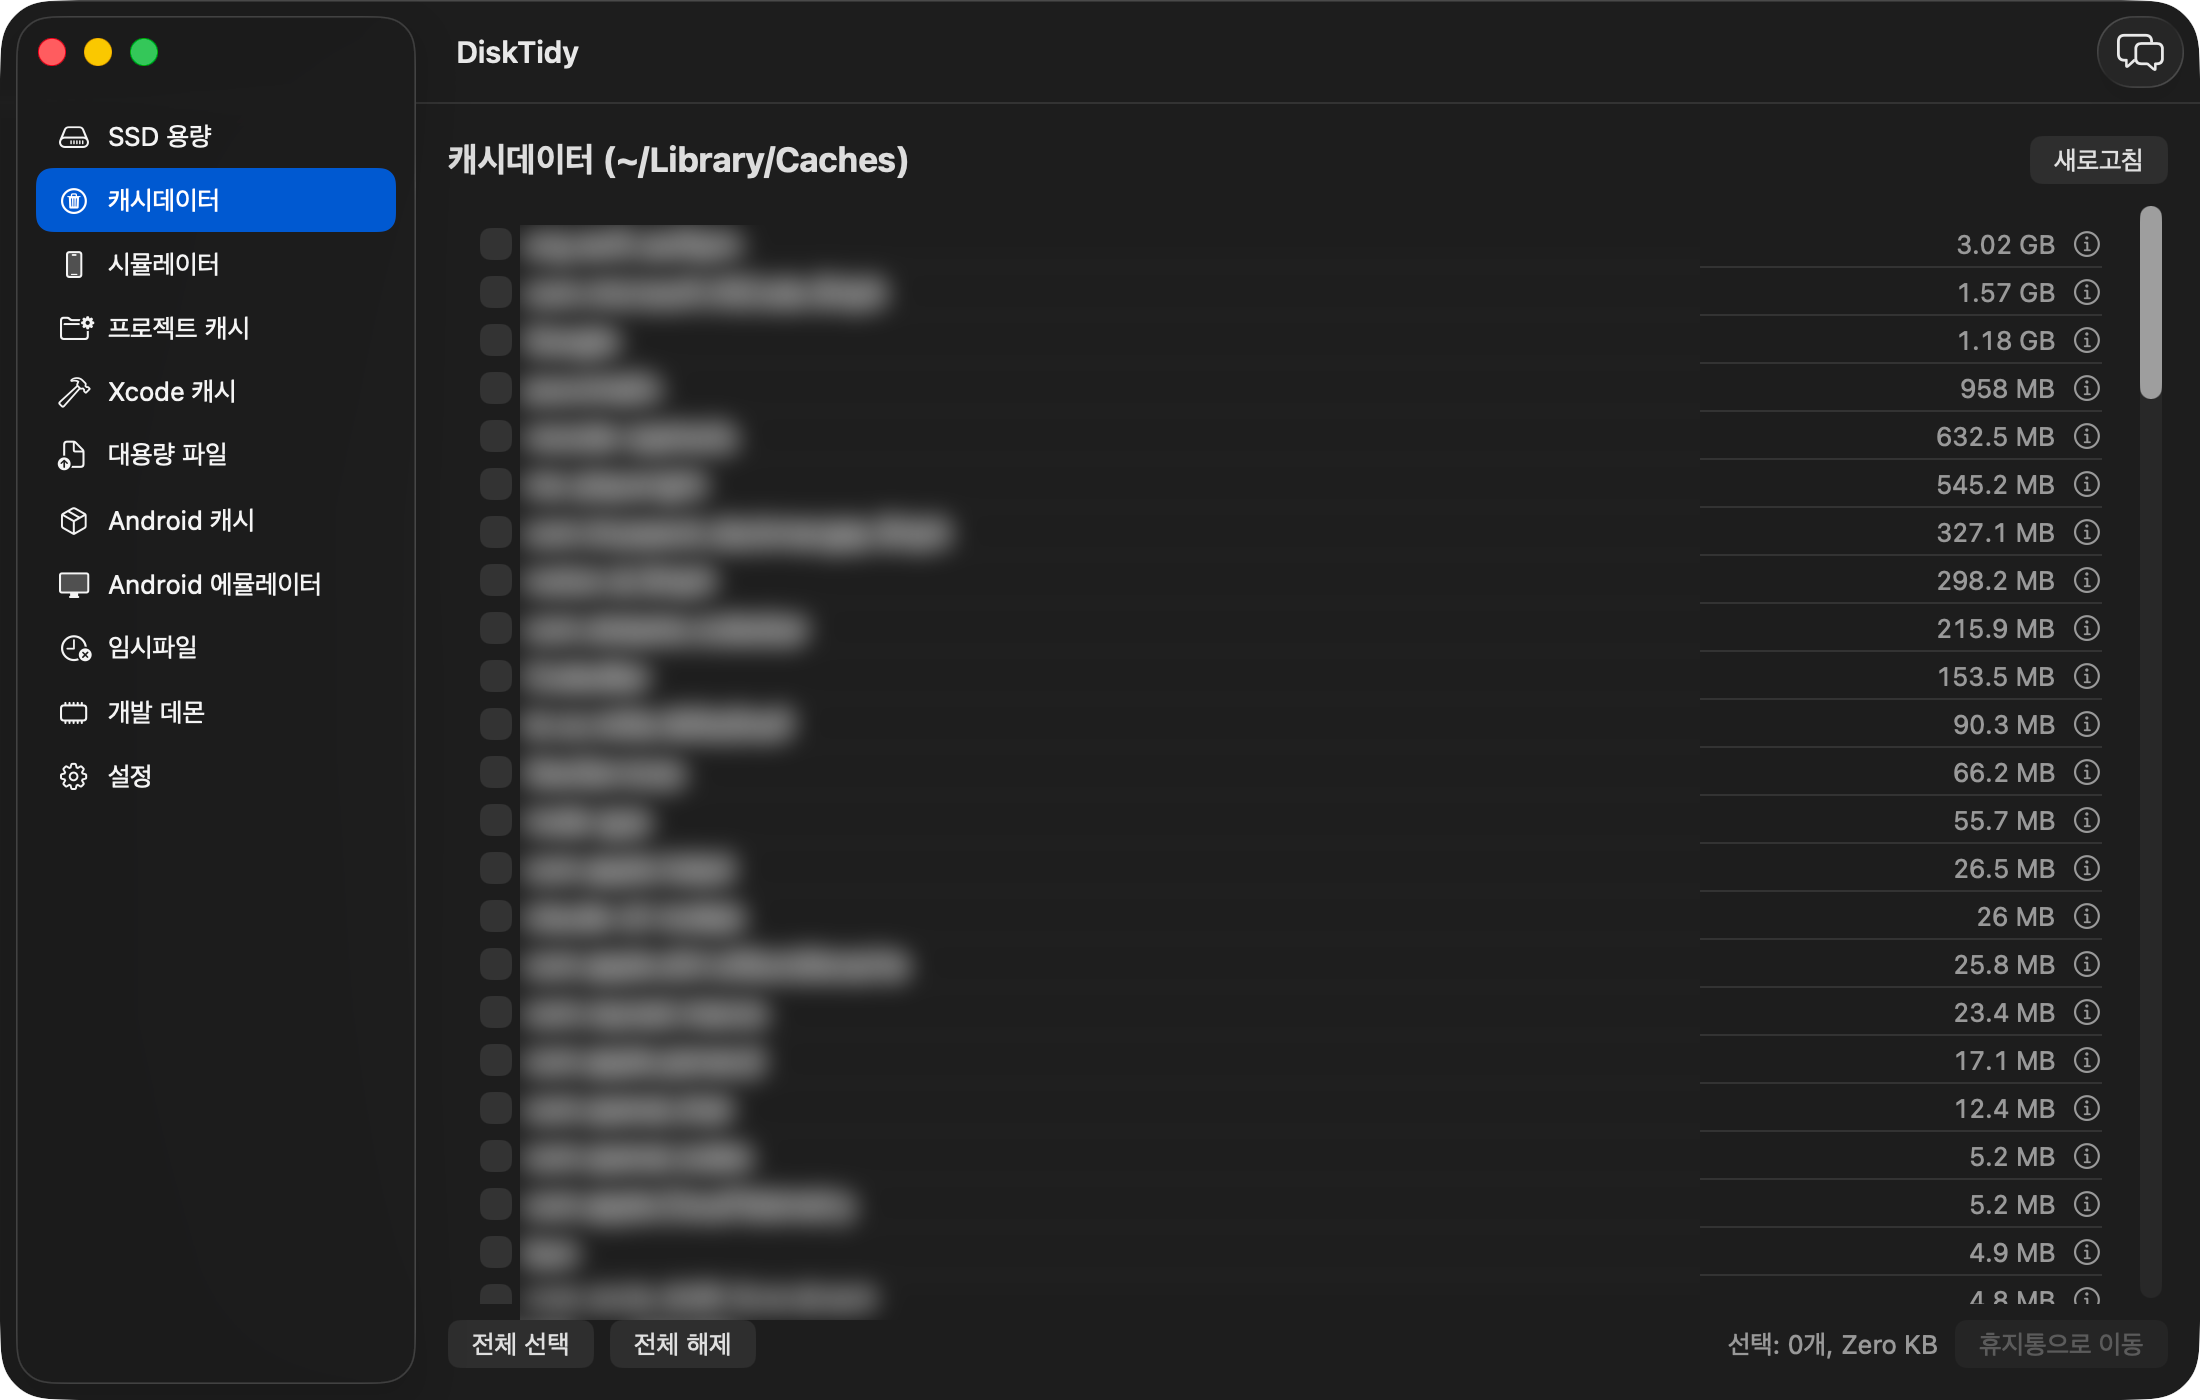
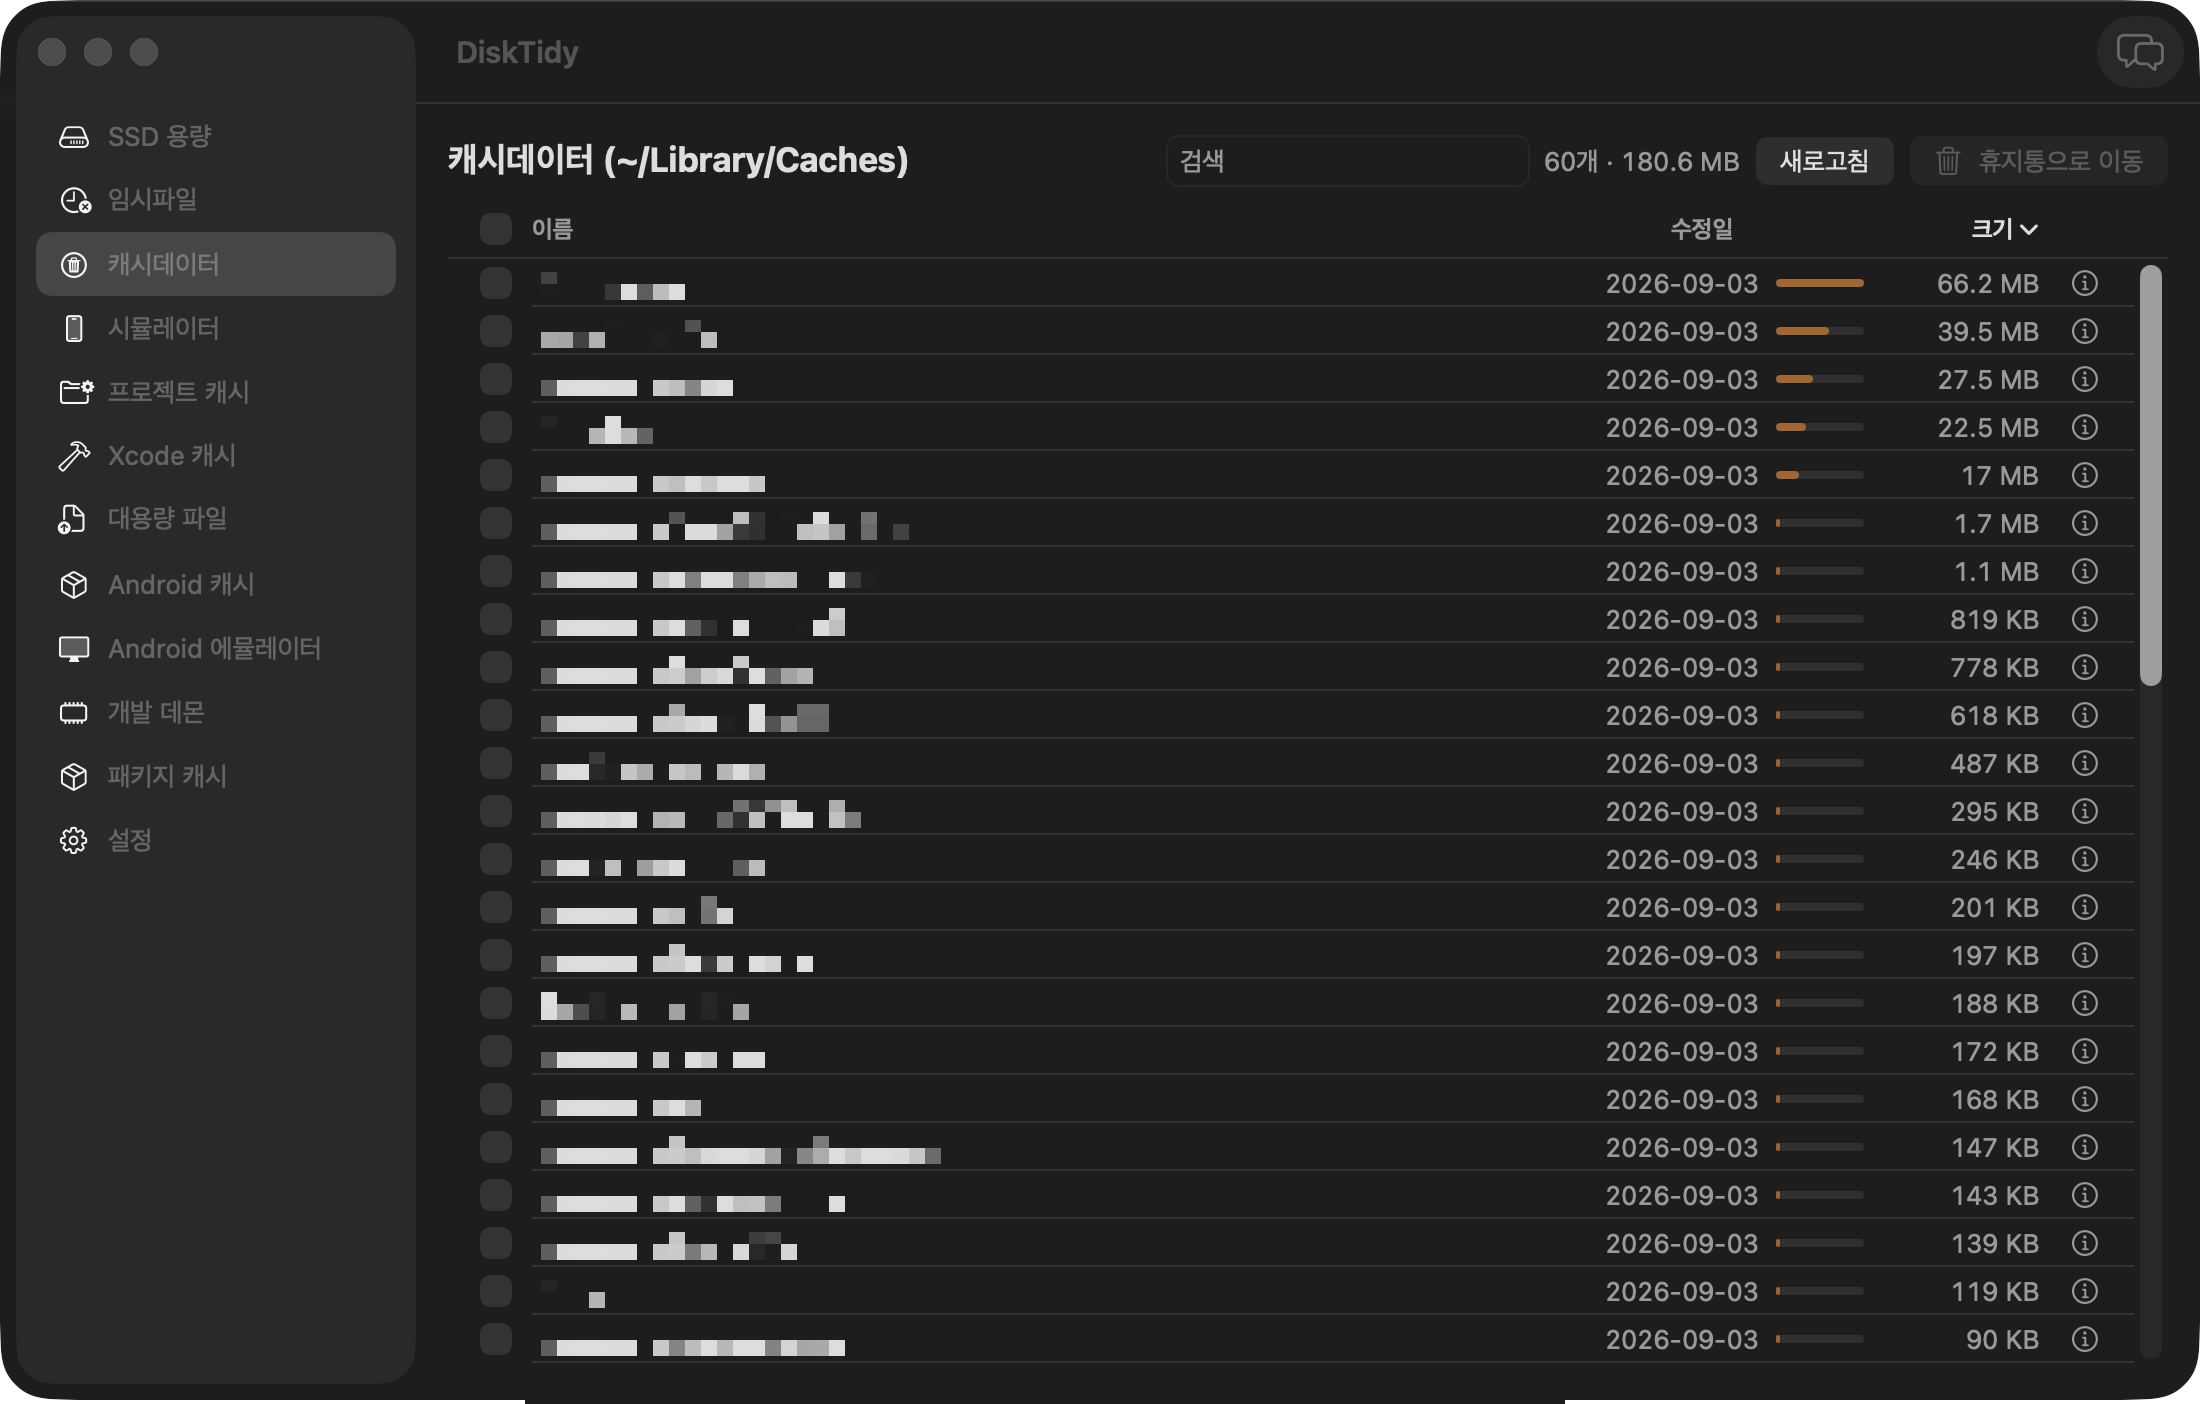
docs: 목록 UI가 바뀐 스크린샷 4장을 다시 찍는다
1.5.2에서 조작이 상단으로 올라간 뒤 스크린샷은 1.5.1 화면이었다. 임시파일 ·
개발 데몬 · 캐시데이터 · 시뮬레이터를 1.5.4 빌드로 다시 찍는다. 기존과 같은
1100×700 창(2x, 2200×1400)이고 AI 도우미는 닫은 상태다.

새 화면에서 보이는 것: 상단 바의 검색·선택 요약·주황 액션 버튼, 3상태 전체
선택 체크박스, 눌러서 정렬하는 열 제목, 크기 비중 막대.

개인정보는 항목 이름 열만 픽셀화했다 — 임시파일은 프로젝트 이름이, 캐시데이터는
앱 번들 ID가 드러난다. 판정 근거·수정일·크기는 그대로 남겼다. 개발 데몬과
시뮬레이터는 프로세스명·기기명이라 마스킹하지 않았다.

캡션도 새 화면에 맞게 고친다.

diff --git a/README.md b/README.md
@@ -75,8 +75,6 @@ macOS SSD 용량 정리 유틸리티다. 앱 캐시 · 시뮬레이터 · 빌드
 - 행 우클릭으로 **Finder에서 보기 · 경로 복사**(프로세스는 PID·실행 경로 복사, 시뮬레이터는 UDID 복사).
 - 고친 것: 개발 데몬 탭의 전체 선택이 종료할 수 없는 프로세스까지 체크해 "선택 8개 · 종료 가능 0개"가 되던 문제, 캐시데이터 탭의 수정일이 전부 비어 있던 문제, 목록이 비었을 때 빈 사각형이 화면을 덮던 문제.
 
-> 스크린샷은 1.5.1 화면이라 하단 버튼이 남아 있다. 다음 커밋에서 다시 찍는다.
-
 ### 1.5.1에서 달라진 것
 
 - **개발 데몬 탭이 활동 지표를 보인다.** 프로세스마다 시작 시각 · CPU 누적 · 마지막 활동 · 띄운 앱이 붙고, 지금 일하는 중이면 초록 배지가 뜬다 → [3.5](#35-개발-데몬-활동-지표)
@@ -110,8 +108,8 @@ macOS SSD 용량 정리 유틸리티다. 앱 캐시 · 시뮬레이터 · 빌드
 
 | | |
 |---|---|
-| **임시파일** — 안전 규칙을 통과한 항목만 올라온다<br><img src="docs/screenshots/12-temp.png" width="400" alt="임시파일 화면"> | **개발 데몬** — 시작 시각·CPU·마지막 활동·띄운 앱<br><img src="docs/screenshots/13-memory.png" width="400" alt="개발 데몬 화면"> |
-| **캐시데이터** — `~/Library/Caches` 앱별 캐시를 크기순으로<br><img src="docs/screenshots/02-cache.png" width="400" alt="캐시데이터 화면"> | **시뮬레이터** — 오래 방치된 기기가 위로<br><img src="docs/screenshots/03-simulator.png" width="400" alt="시뮬레이터 화면"> |
+| **임시파일** — 안전 규칙을 통과한 항목만, 출처별 그룹으로<br><img src="docs/screenshots/12-temp.png" width="400" alt="임시파일 화면"> | **개발 데몬** — 시작 시각·CPU·마지막 활동·띄운 앱<br><img src="docs/screenshots/13-memory.png" width="400" alt="개발 데몬 화면"> |
+| **캐시데이터** — 열 제목을 눌러 정렬, 비중 막대로 상위 항목 확인<br><img src="docs/screenshots/02-cache.png" width="400" alt="캐시데이터 화면"> | **시뮬레이터** — 오래 방치된 기기가 위로<br><img src="docs/screenshots/03-simulator.png" width="400" alt="시뮬레이터 화면"> |
 | **프로젝트 캐시** — 고른 폴더 하위 빌드 캐시 재귀 탐색<br><img src="docs/screenshots/04-project-cache.png" width="400" alt="프로젝트 캐시 화면"> | **대용량 파일** — 200MB 이상 파일 탐색<br><img src="docs/screenshots/06-big-files.png" width="400" alt="대용량 파일 화면"> |
 | **Android 캐시** — Gradle · Android Studio<br><img src="docs/screenshots/07-android-cache.png" width="400" alt="Android 캐시 화면"> | **Android 에뮬레이터** — AVD 목록<br><img src="docs/screenshots/08-android-emulator.png" width="400" alt="Android 에뮬레이터 화면"> |
 | **설정** — AI 제공자 연결과 창 동작<br><img src="docs/screenshots/14-settings.png" width="400" alt="설정 화면"> | **AI 도우미** — 오른쪽 인스펙터로 열린다<br><img src="docs/screenshots/15-chat.png" width="400" alt="AI 도우미 인스펙터"> |

diff --git a/README.en.md b/README.en.md
@@ -80,8 +80,6 @@ The four list screens (caches · temp files · simulators · dev daemons) got a 
 - Right-click a row for **Show in Finder · Copy path** (PID and executable path for processes, UDID for simulators).
 - Fixes: the dev-daemon tab used to select processes it cannot quit, producing "8 selected · 0 quittable"; the cache tab showed no modification dates; an empty list painted a blank rectangle over the screen.
 
-> The screenshots still show the 1.5.1 layout with the bottom buttons. They will be retaken in a follow-up commit.
-
 ### What changed in 1.5.1
 
 - **The dev-daemon tab now shows activity signals.** Every process carries its start time, cumulative CPU, last activity and the app that launched it, with a green badge while it is working → [3.5](#35-dev-daemon-activity-signals)
